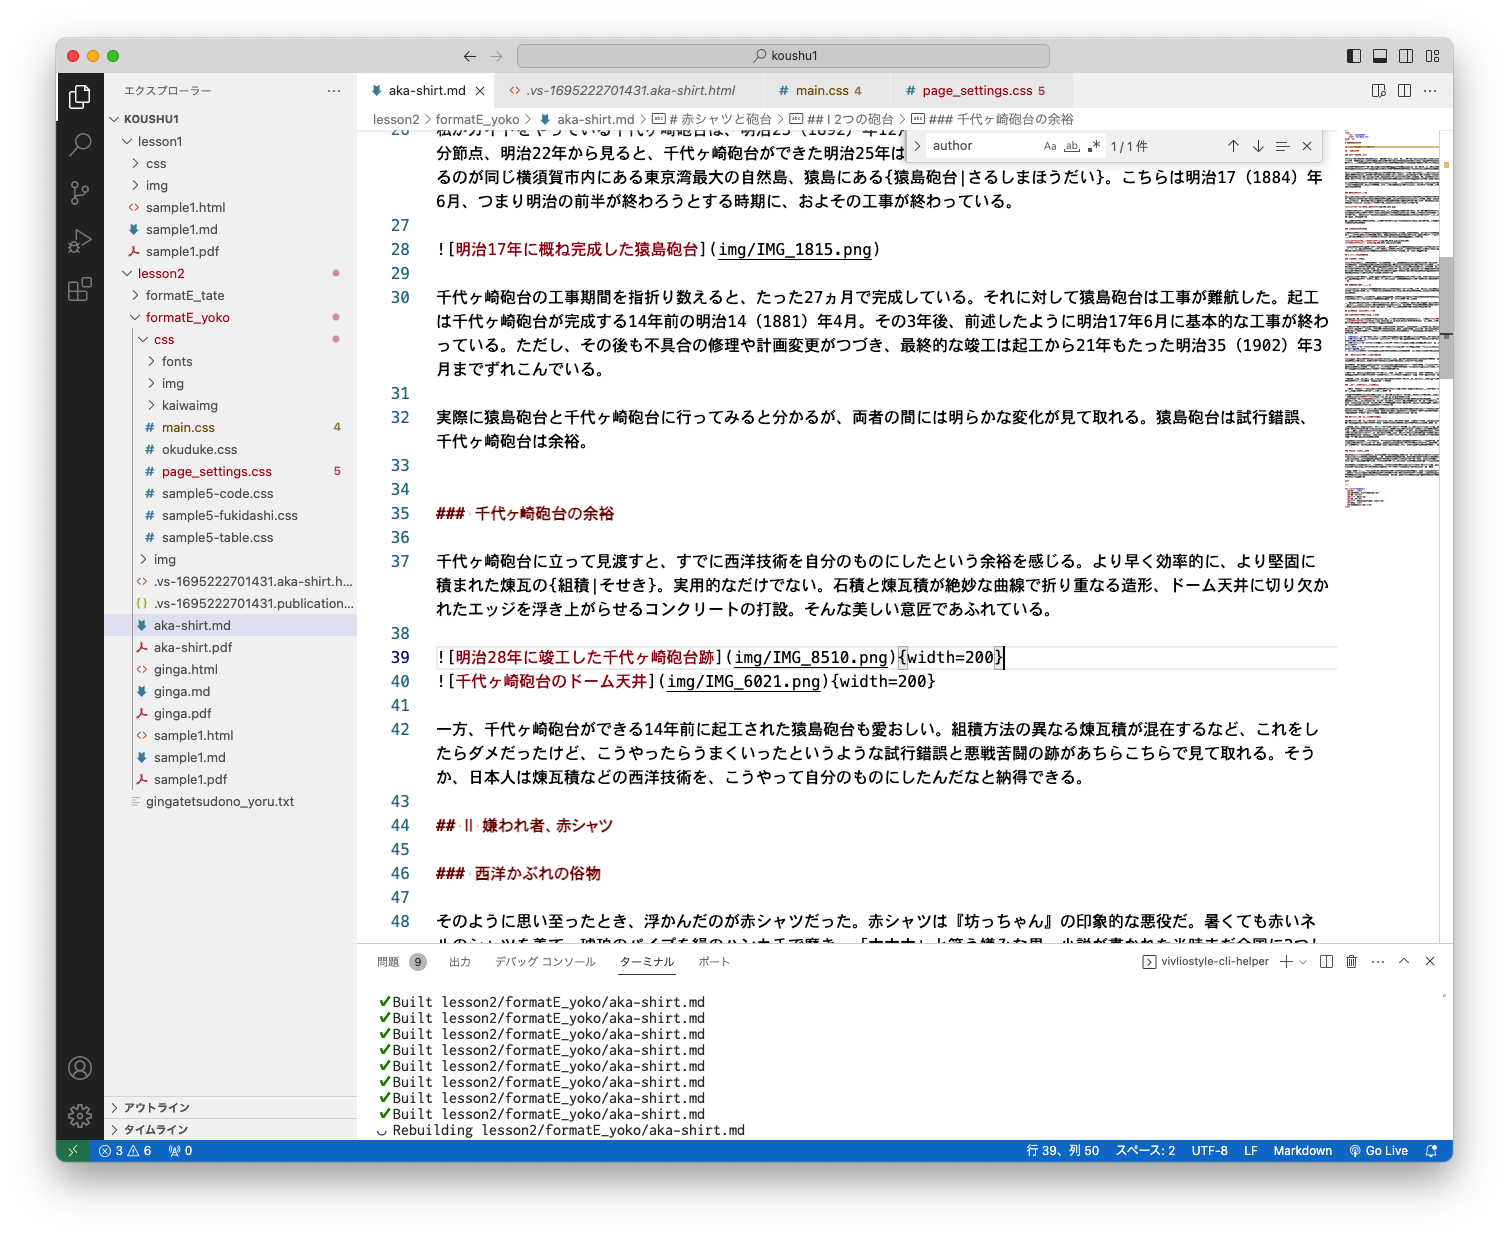
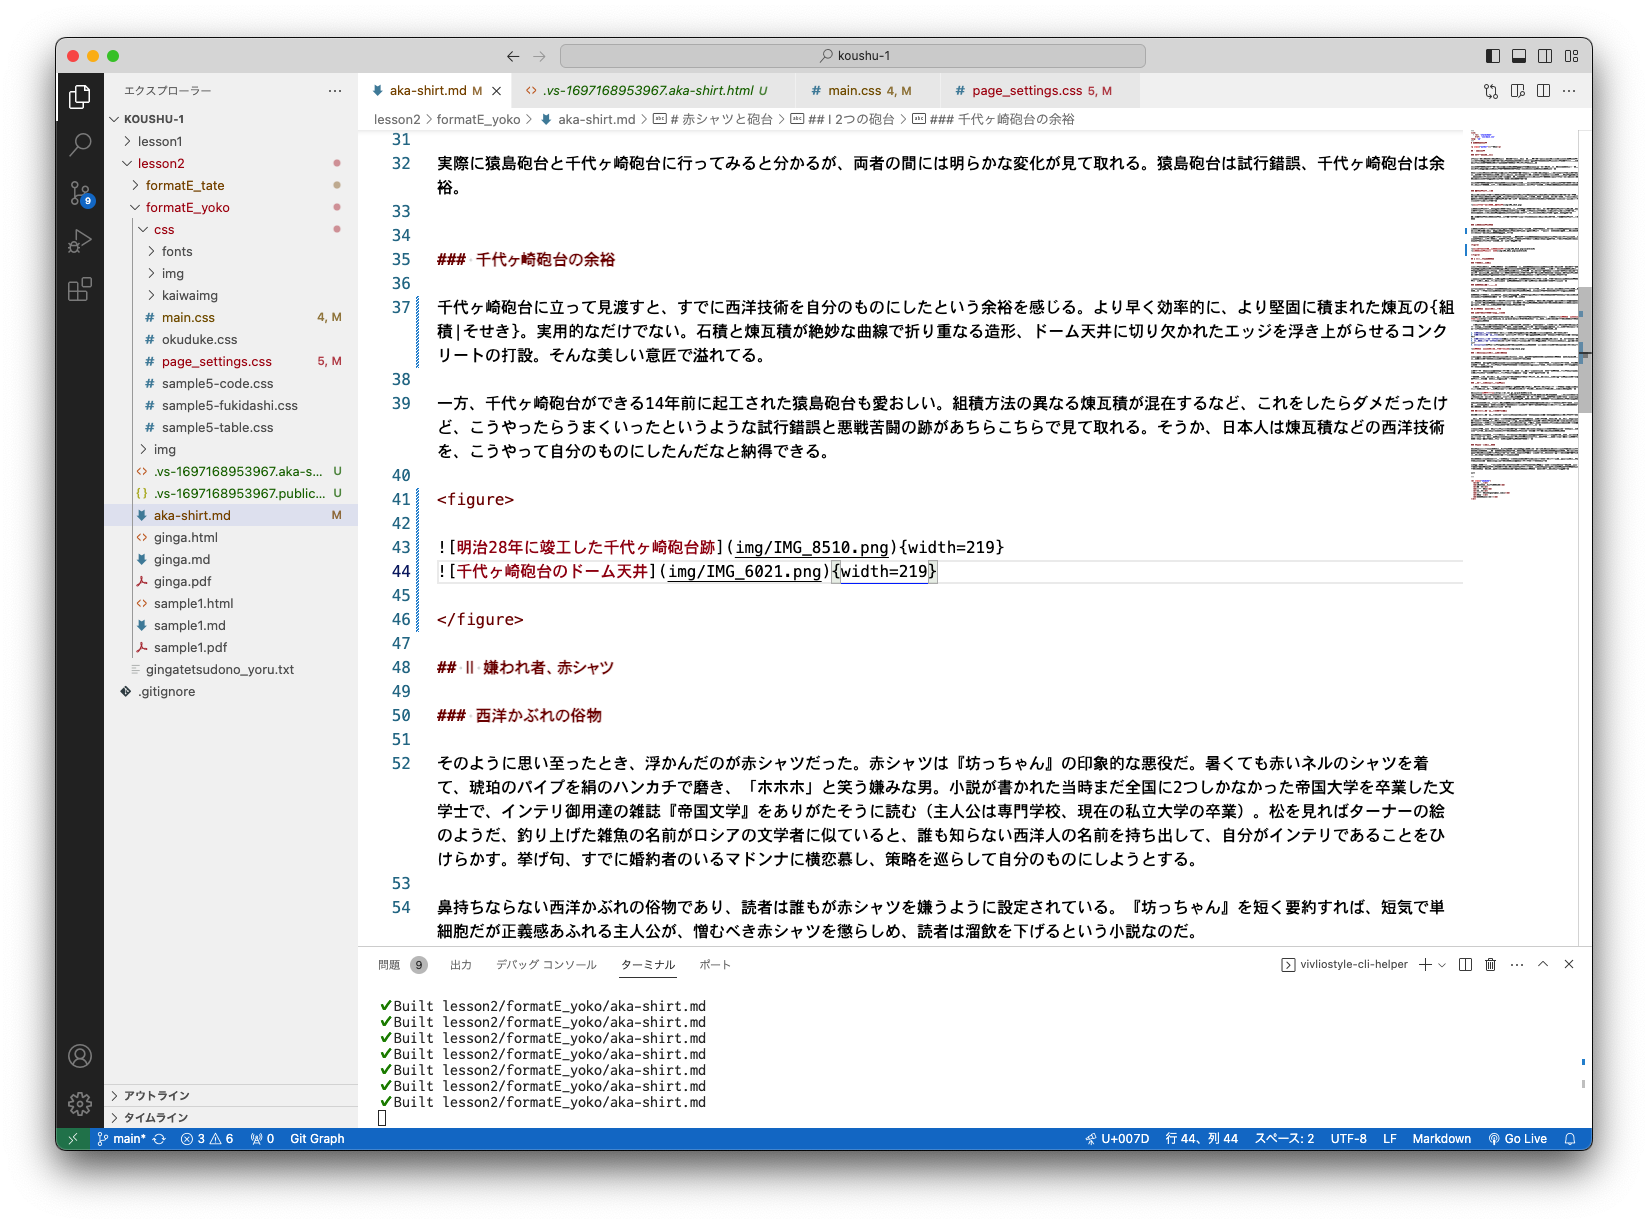
4章残り

Changed region(s): [[0.0, 0.031, 0.9967, 0.9624]]

diff --git a/ja/4-create-your-book-in-vivliostyle-2/5-how-to-include-illustrations.md b/ja/4-create-your-book-in-vivliostyle-2/5-how-to-include-illustrations.md
@@ -1,32 +1,74 @@
 # 画像の設定方法
 
-## 挿絵として画像を入れる方法
+## 挿絵として画像を入れる方法**（26:25、p.106）**
+
+1. 新規イラスト画像を、Markdownファイルと同じ階層の`img`フォルダにコピーします。**（27:50）**
+    - フォルダ名が同じ、`css`フォルダの中の`img`フォルダと間違わないでください。
 
 ![](/images/4-create-your-book-in-vivliostyle-2/5-how-to-include-illustrations/4-5-1.png)
 
+2. Markdownファイルの、画像を入れたい箇所に以下のような記法で指定します。**（27:58）**
+    - `![キャプション](画像ファイルのpath)`
+
+```
+![明治28年に竣工した千代ヶ崎砲台跡](img/IMG_8510.png)
+```
+
+- **補足：** キャプションの入れ方については動画**28:41**を、サイズ指定については動画**28:21**を参照してください。
+
 ![](/images/4-create-your-book-in-vivliostyle-2/5-how-to-include-illustrations/4-5-2.png)
+
+3. 以下のようにプレビューされます。**（28:12）**
 
 ![](/images/4-create-your-book-in-vivliostyle-2/5-how-to-include-illustrations/4-5-3.png)
 
+4. HTMLファイルをみてみましょう**（29:11）**。figure要素として画像が、figcaption要素としてキャプションがパースされていることが確認できます（水色でテキスト選択された部分）。
+    - **補足：** vivliostyle-cli-helperは、プレビューやPDFビルドのためにHTMLファイルを生成します。上記で見ているのはこのHTMLファイルです。ファイル名は先頭に`.`を付けたランダムな英数字が使われています。これは一時的に作られたテンポラリファイルであり、時間がたつと自動的に削除されるのでご注意ください。
+
 ![](/images/4-create-your-book-in-vivliostyle-2/5-how-to-include-illustrations/4-5-4.png)
 
-## 画像をfigure要素にしない方法
+## figure要素を自分で指定する方法**（31:41）**
+
+1. 複数の画像を続けて配置する場合を考えてみましょう。直感的には以下のように、前項で説明された画像ファイルを指定する記法を2つ続ければよいように思えます。。
 
 ![](/images/4-create-your-book-in-vivliostyle-2/5-how-to-include-illustrations/4-5-5.png)
 
+2. ではファイルを保存して、プレビューを表示させてみましょう。
+    - 上下に2枚連続して収まったのはよいのですが、すこしずれてしまって体裁が悪いですね。しかもキャプションがありません。
+
 ![](/images/4-create-your-book-in-vivliostyle-2/5-how-to-include-illustrations/4-5-6.png)
+
+5. プレビューのために生成されたHTMLファイルを確認してみると、2つの画像ファイルがp要素に囲まれていることが分かります。
+    - p要素（段落要素）はコンテンツ（この場合は画像）をインライン方向（この場合はヨコ）に順次配置します。
+    - しかしこの場合は画像ファイルのサイズが大きいのでインライン方向に配置しようとしても版面に収まらず、強制的に次行に折り返す形で上下に配置されたわけです。
+    - ただし、2つの画像は結果として上下に配置されただけなのでずれてしまったわけです。
+    - また、figure要素にならないので、キャプションをパースするfigcaption要素も付加されないので、キャプションがなくなってしまったのです。
 
 ![](/images/4-create-your-book-in-vivliostyle-2/5-how-to-include-illustrations/4-5-7.png)
 
+6. では、下記のように自分で画像ファイルの前後にfigureタグを付けてみたらどうでしょう？
+
 ![](/images/4-create-your-book-in-vivliostyle-2/5-how-to-include-illustrations/4-5-8.png)
+
+7. きれいに上下に、そして版面に揃って配置されました。ただし、キャプションはないままです。
 
 ![](/images/4-create-your-book-in-vivliostyle-2/5-how-to-include-illustrations/4-5-9.png)
 
+8. HTMLファイルを確認すると、2つの画像をパースする2つのimgタグが、figure要素に包まれていることが分かります。
+    - ただし、figcaption要素はありません。
+
 ![](/images/4-create-your-book-in-vivliostyle-2/5-how-to-include-illustrations/4-5-10.png)
+
+9. では、それぞれの画像に`{width=219}`として画像の幅が219pxになるように指定してみましょう。
 
 ![](/images/4-create-your-book-in-vivliostyle-2/5-how-to-include-illustrations/4-5-11.png)
 
+10. 画像の幅は版面のギリギリ半分未満である219pxになったため、インライン方向（この場合はヨコ）に順次配置されました。
+
 ![](/images/4-create-your-book-in-vivliostyle-2/5-how-to-include-illustrations/4-5-12.png)
+
+11. HTMLを確認してみましょう。上記8.のHTMLに幅を表す`width="219"`の属性が付加されていることが確認できます。
 
 ![](/images/4-create-your-book-in-vivliostyle-2/5-how-to-include-illustrations/4-5-13.png)
 
+- **補足：** その他、figureタグで囲まずに1行空けて指定するとどうなるか、同じく幅をぞれぞれ`{width=219}`とした上で1行空けずに指定するとどうなるか、その時キャプションはどうなるか、またHTMLはどのようにパースされるかなど、いろいろ試してみると面白いでしょう。

diff --git a/ja/4-create-your-book-in-vivliostyle-2/4-how-to-output-pdf.md b/ja/4-create-your-book-in-vivliostyle-2/4-how-to-output-pdf.md
@@ -1,11 +1,15 @@
 # PDFの書き出し方**（21:47）**
 
-1. PDFを作成したいテキストの編集画面にカーソルを置いた状態で右クリックします。
+1. 編集画面にカーソルを置いた状態で右クリックします（スタイルシート等ではなく、PDFにするテキストの編集画面）。
 2. 表示されたサブメニューから「vivliostyle-cli-helper」（赤丸）、ついで「これビルド vivliostyle build (Current File)」（赤矢印）を選択
 
 ![](/images/4-create-your-book-in-vivliostyle-2/4-how-to-output-pdf/4-4-1.png)
 
-3 ターミナルのペインを見ると（赤四角）、PDFをビルドしていることが分かります。「Build successfully」と表示されたらビルドは成功です。
+- **補足：**動画22分前後に、プレビュー表示している時にPDFを出力したい場合、いったん`control`+`c`でプレビューを終了させなければならない旨の説明があります。この問題は修正され、現在はプレビューを閉じるだけで終了できます。
+    - [feat: Preview should be terminated when the previewing page is closed #441](https://github.com/vivliostyle/vivliostyle-cli/pull/441)
+
+
+3 ターミナルのペインを見ると（赤四角）、PDFをビルドしていることが分かります。「🎉 Build successfully」と表示されたら成功です。
 
 ![](/images/4-create-your-book-in-vivliostyle-2/4-how-to-output-pdf/4-4-2.png)
 
